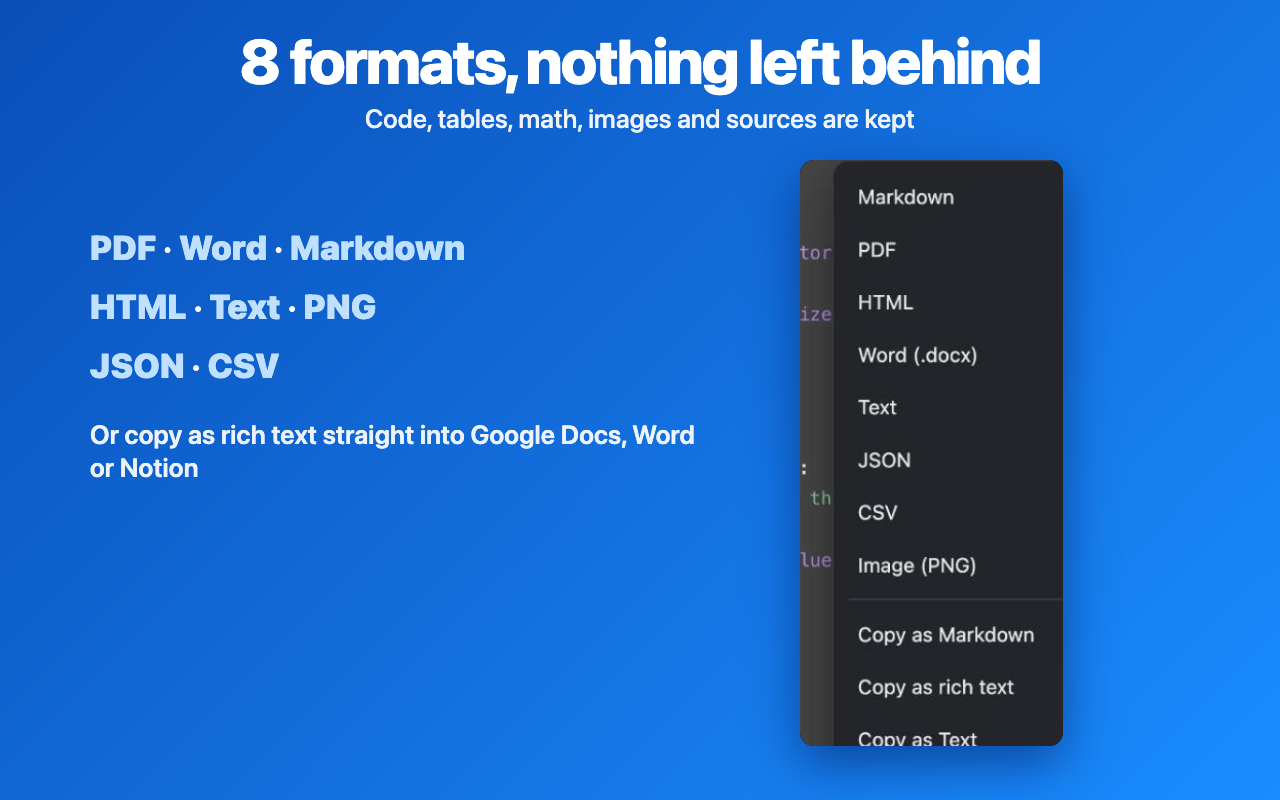
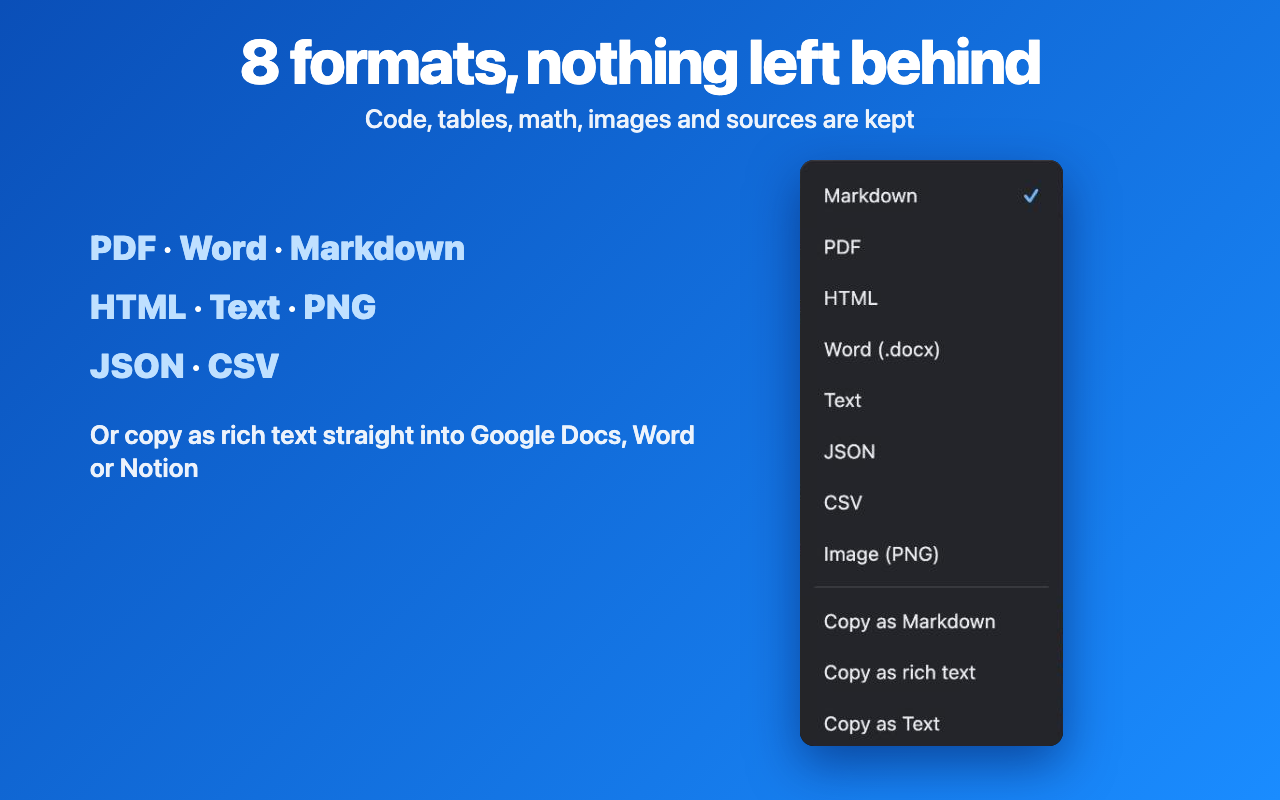
Fix crop offsets in recaptured store screenshots

Changed region(s): [[0.625, 0.1875, 0.8125, 0.9375]]

diff --git a/store-assets/compose.js b/store-assets/compose.js
@@ -17,6 +17,7 @@ ul.f{position:absolute;list-style:none;font-size:31px;font-weight:700;line-heigh
 // crop(img, x,y,w,h, left,top, scale)
 const crop = (n, x, y, w, h, l, t, s = 1, extra = '') => `<div class=shot style="left:${l}px;top:${t}px;width:${w * s}px;height:${h * s}px;${extra}"><img src="${raw(n)}" style="width:${1568 * s}px;left:${-x * s}px;top:${-y * s}px"></div>`;
 
+const crop2 = (n, x, y, w, h, l, t, s) => `<div class=shot style="left:${l}px;top:${t}px;width:${w * s}px;height:${h * s}px"><img src="${raw(n)}" style="width:${1526 * s}px;left:${-x * s}px;top:${-y * s}px"></div>`;
 const shots = {
   '1-export-menu': page('Export any ChatGPT chat in one click', 'PDF, Word, Markdown, HTML, Text, JSON, CSV or PNG',
     crop('menu.jpg', 400, 40, 1168, 706, 56, 150, 0.92)),
@@ -24,9 +25,9 @@ const shots = {
     crop('select.jpg', 400, 0, 1168, 746, 56, 150, 0.87)),
   '3-pdf-settings': page('Customise your PDF', 'Page size, margins, theme, fonts, page numbers and more',
     `<ul class=f style="left:90px;top:230px;width:620px"><li><b>✓</b> A4, Letter or Legal</li><li><b>✓</b> Light or dark theme</li><li><b>✓</b> Margins and font size</li><li><b>✓</b> Page numbers</li><li><b>✓</b> Table of contents</li><li><b>✓</b> Page break per prompt</li></ul>`
-    + crop('settings2.jpg', 971, 60, 555, 684, 640, 150, 0.95)),
+    + crop2('settings2.jpg', 971, 60, 555, 684, 640, 150, 0.95)),
   '4-formats': page('8 formats, nothing left behind', 'Code, tables, math, images and sources are kept',
-    crop('menu2.jpg', 1215, 12, 263, 586, 800, 160, 1.0)
+    crop2('menu2.jpg', 1215, 12, 263, 586, 800, 160, 1.0)
     + `<ul class=f style="left:90px;top:210px;width:620px;font-size:34px"><li><b>PDF</b> · <b>Word</b> · <b>Markdown</b></li><li><b>HTML</b> · <b>Text</b> · <b>PNG</b></li><li><b>JSON</b> · <b>CSV</b></li><li style="font-size:26px;font-weight:600;opacity:.92;margin-top:30px">Or copy as rich text straight into Google Docs, Word or Notion</li></ul>`)
 };
 
@@ -43,7 +44,6 @@ body{background:${SOLID};font-family:-apple-system,BlinkMacSystemFont,"Segoe UI"
 .t{position:absolute;left:186px;top:58px;font-size:56px;line-height:1}
 .list{position:absolute;left:60px;top:180px;font-size:66px;line-height:1.12}
 </style>${body}`;
-const crop2 = (n, x, y, w, h, l, t, s) => `<div class=shot style="left:${l}px;top:${t}px;width:${w * s}px;height:${h * s}px"><img src="${raw(n)}" style="width:${1526 * s}px;left:${-x * s}px;top:${-y * s}px"></div>`;
 shots['hero-1-features'] = solid(`<div class="bul y"><div>- Export to PDF, Word, Markdown, HTML ...</div><div>- Export only the messages you need</div><div>- Customise your PDF and file names</div><div>- Keeps code, tables, math and images</div></div>`
   + crop2('menu2.jpg', 1215, 12, 263, 560, 70, 320, 0.85) + crop2('select2.jpg', 971, 0, 555, 620, 330, 320, 0.8) + crop2('settings2.jpg', 971, 60, 555, 620, 800, 320, 0.8));
 shots['hero-2-formats'] = solid(`<img class=logo src="${raw('icon128.png')}"><div class="t y">ChatGPT Exporter</div>`
